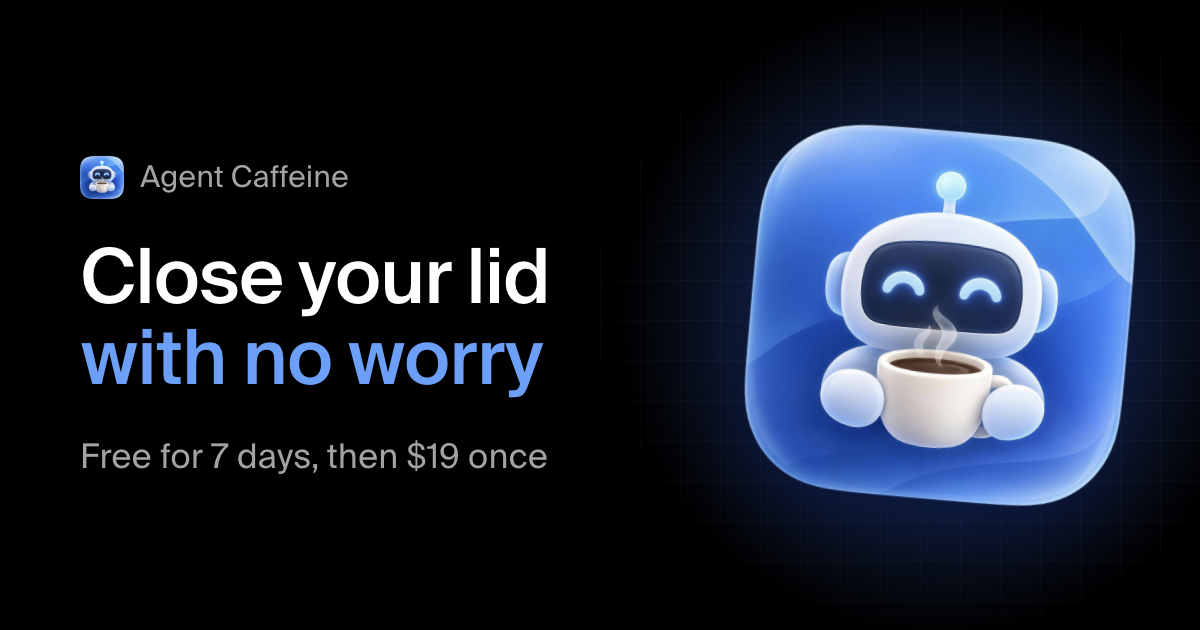
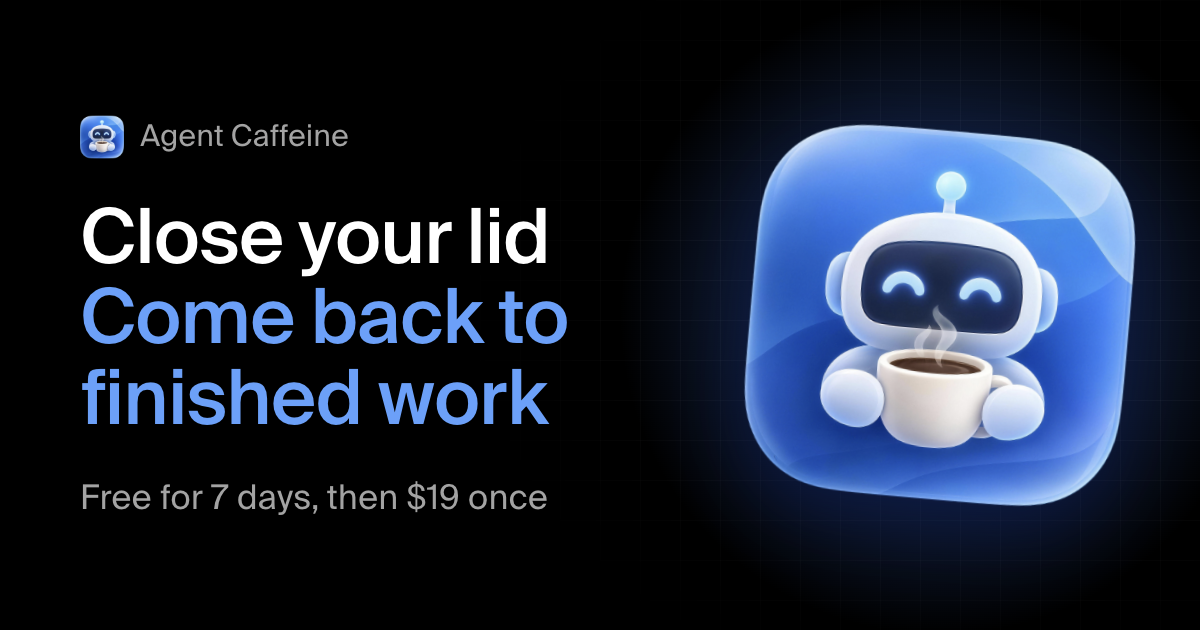
Headline: Close your lid, come back to finished work

Changed region(s): [[0.0617, 0.181, 0.4933, 0.8143]]

diff --git a/site/components/hero.tsx b/site/components/hero.tsx
@@ -86,8 +86,8 @@ export async function Hero() {
   return (
     <section className="relative isolate mx-auto grid w-full max-w-[1120px] items-center gap-x-12 gap-y-5 pb-12 pt-8 text-center lg:grid-cols-[minmax(0,7fr)_minmax(0,5fr)] lg:grid-rows-[1fr_auto_auto_auto_1fr] lg:gap-y-7 lg:min-h-[calc(100svh-3.5rem)] lg:py-10 lg:text-left">
       <GridTexture />
-      <h1 className="relative z-10 text-[clamp(2.25rem,9vw,2.75rem)] font-medium leading-[1.1] tracking-[-0.02em] lg:col-start-1 lg:row-start-2 lg:text-[clamp(2.5rem,4.2vw,3.25rem)]">
-        Close your lid <span className="block text-accent">with no worry</span>
+      <h1 className="relative z-10 text-[clamp(2.25rem,9vw,2.75rem)] font-medium leading-[1.1] tracking-[-0.02em] lg:col-start-1 lg:row-start-2 lg:text-[clamp(2.5rem,4.2vw,3rem)]">
+        Close your lid <span className="block text-balance text-accent xl:whitespace-nowrap">Come back to finished work</span>
       </h1>
       <div className="min-w-0 lg:col-start-2 lg:row-span-5 lg:row-start-1">
         <HeroScene />

diff --git a/site/app/og-image/page.tsx b/site/app/og-image/page.tsx
@@ -32,7 +32,11 @@ export default function OgImage() {
         <h1 className="text-[76px] font-medium leading-[1.06] tracking-[-0.02em]">
           Close your lid
           <br />
-          <span className="text-[#5aa2ff]">with no worry</span>
+          <span className="text-[#5aa2ff]">
+            Come back to
+            <br />
+            finished work
+          </span>
         </h1>
         <p className="text-[34px] leading-none text-[#a3a3a3]">Free for 7 days, then {PRICE} once</p>
       </div>

diff --git a/site/app/layout.tsx b/site/app/layout.tsx
@@ -40,7 +40,7 @@ export async function generateMetadata(): Promise<Metadata> {
           url: "/og.png",
           width: 1200,
           height: 630,
-          alt: "Agent Caffeine. Close your lid with no worry",
+          alt: "Agent Caffeine. Close your lid, come back to finished work",
         },
       ],
     },
